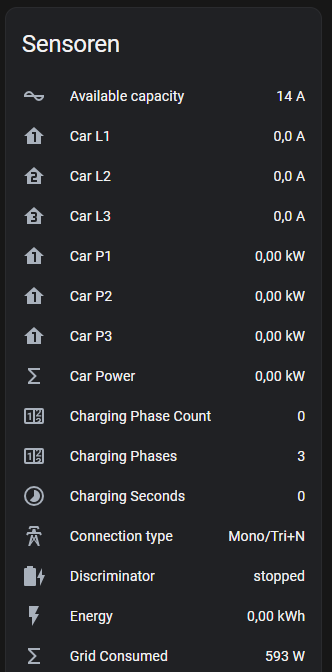
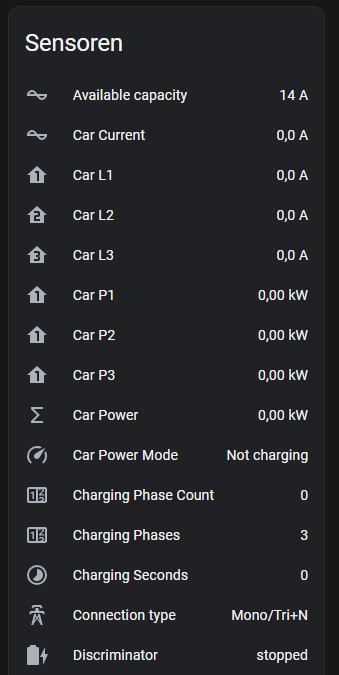
feat: new sensor for Car Power Mode & Car Current

diff --git a/README.md b/README.md
@@ -100,6 +100,7 @@ By following these steps, you can easily find the Bluetooth MAC address of your 
    substitutions:
       device_name: nexxtender
       friendly_name: Nexxtender
+      #charging_mode_eco_threshold: "2.5" # <-- uncomment and modify when you want to use a different threshold
    ```
 
 3. **Update the secrets.yaml:**
